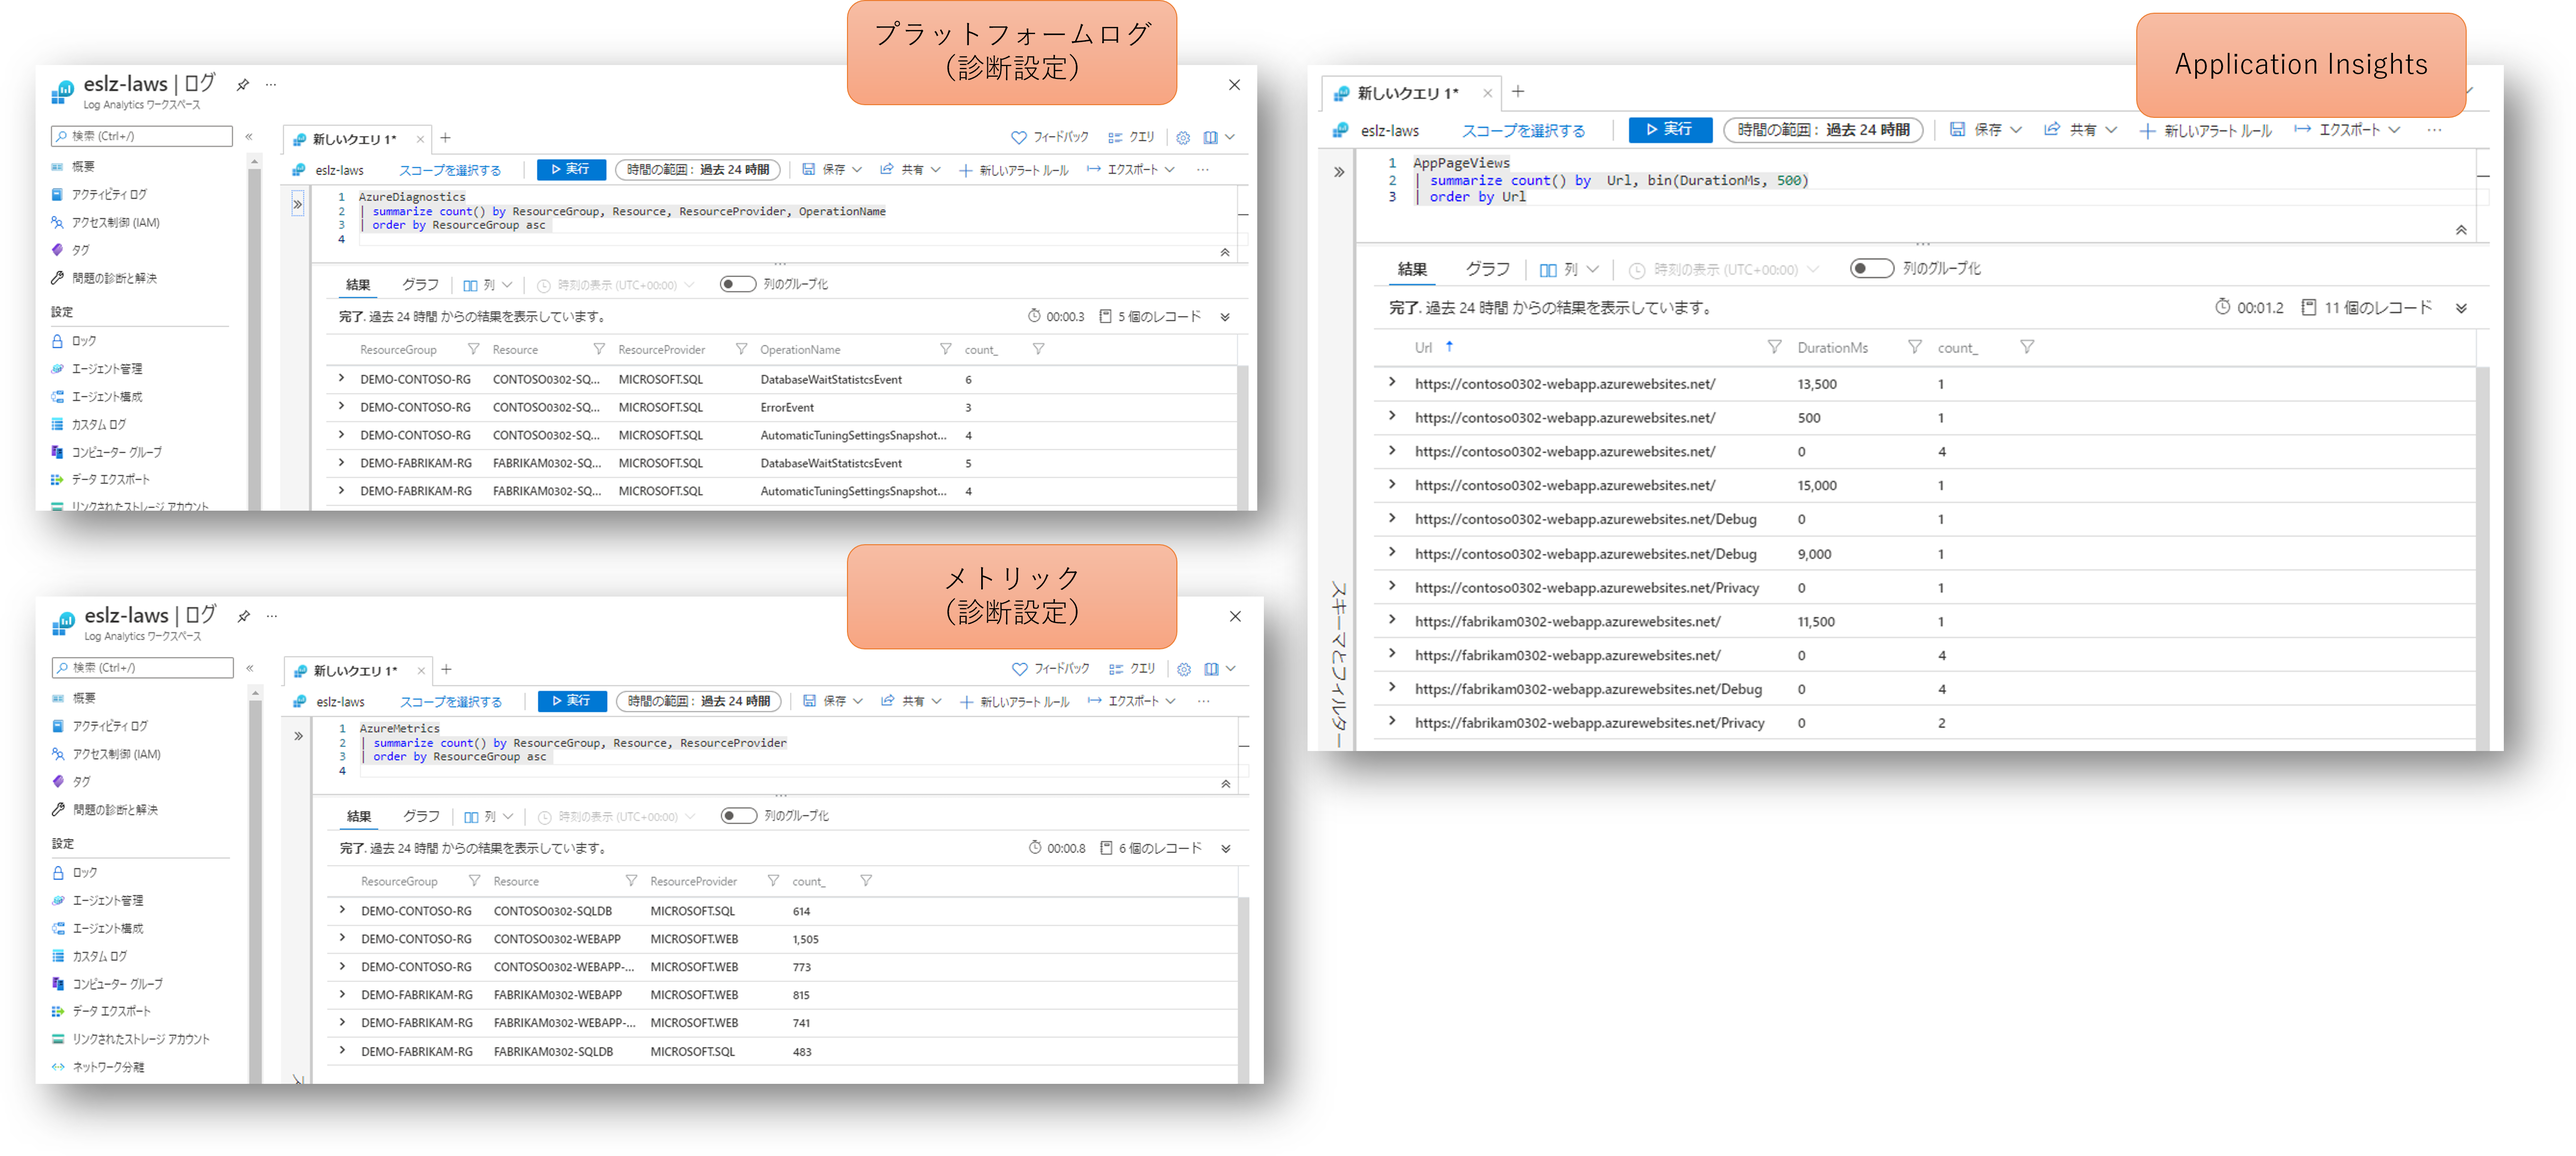
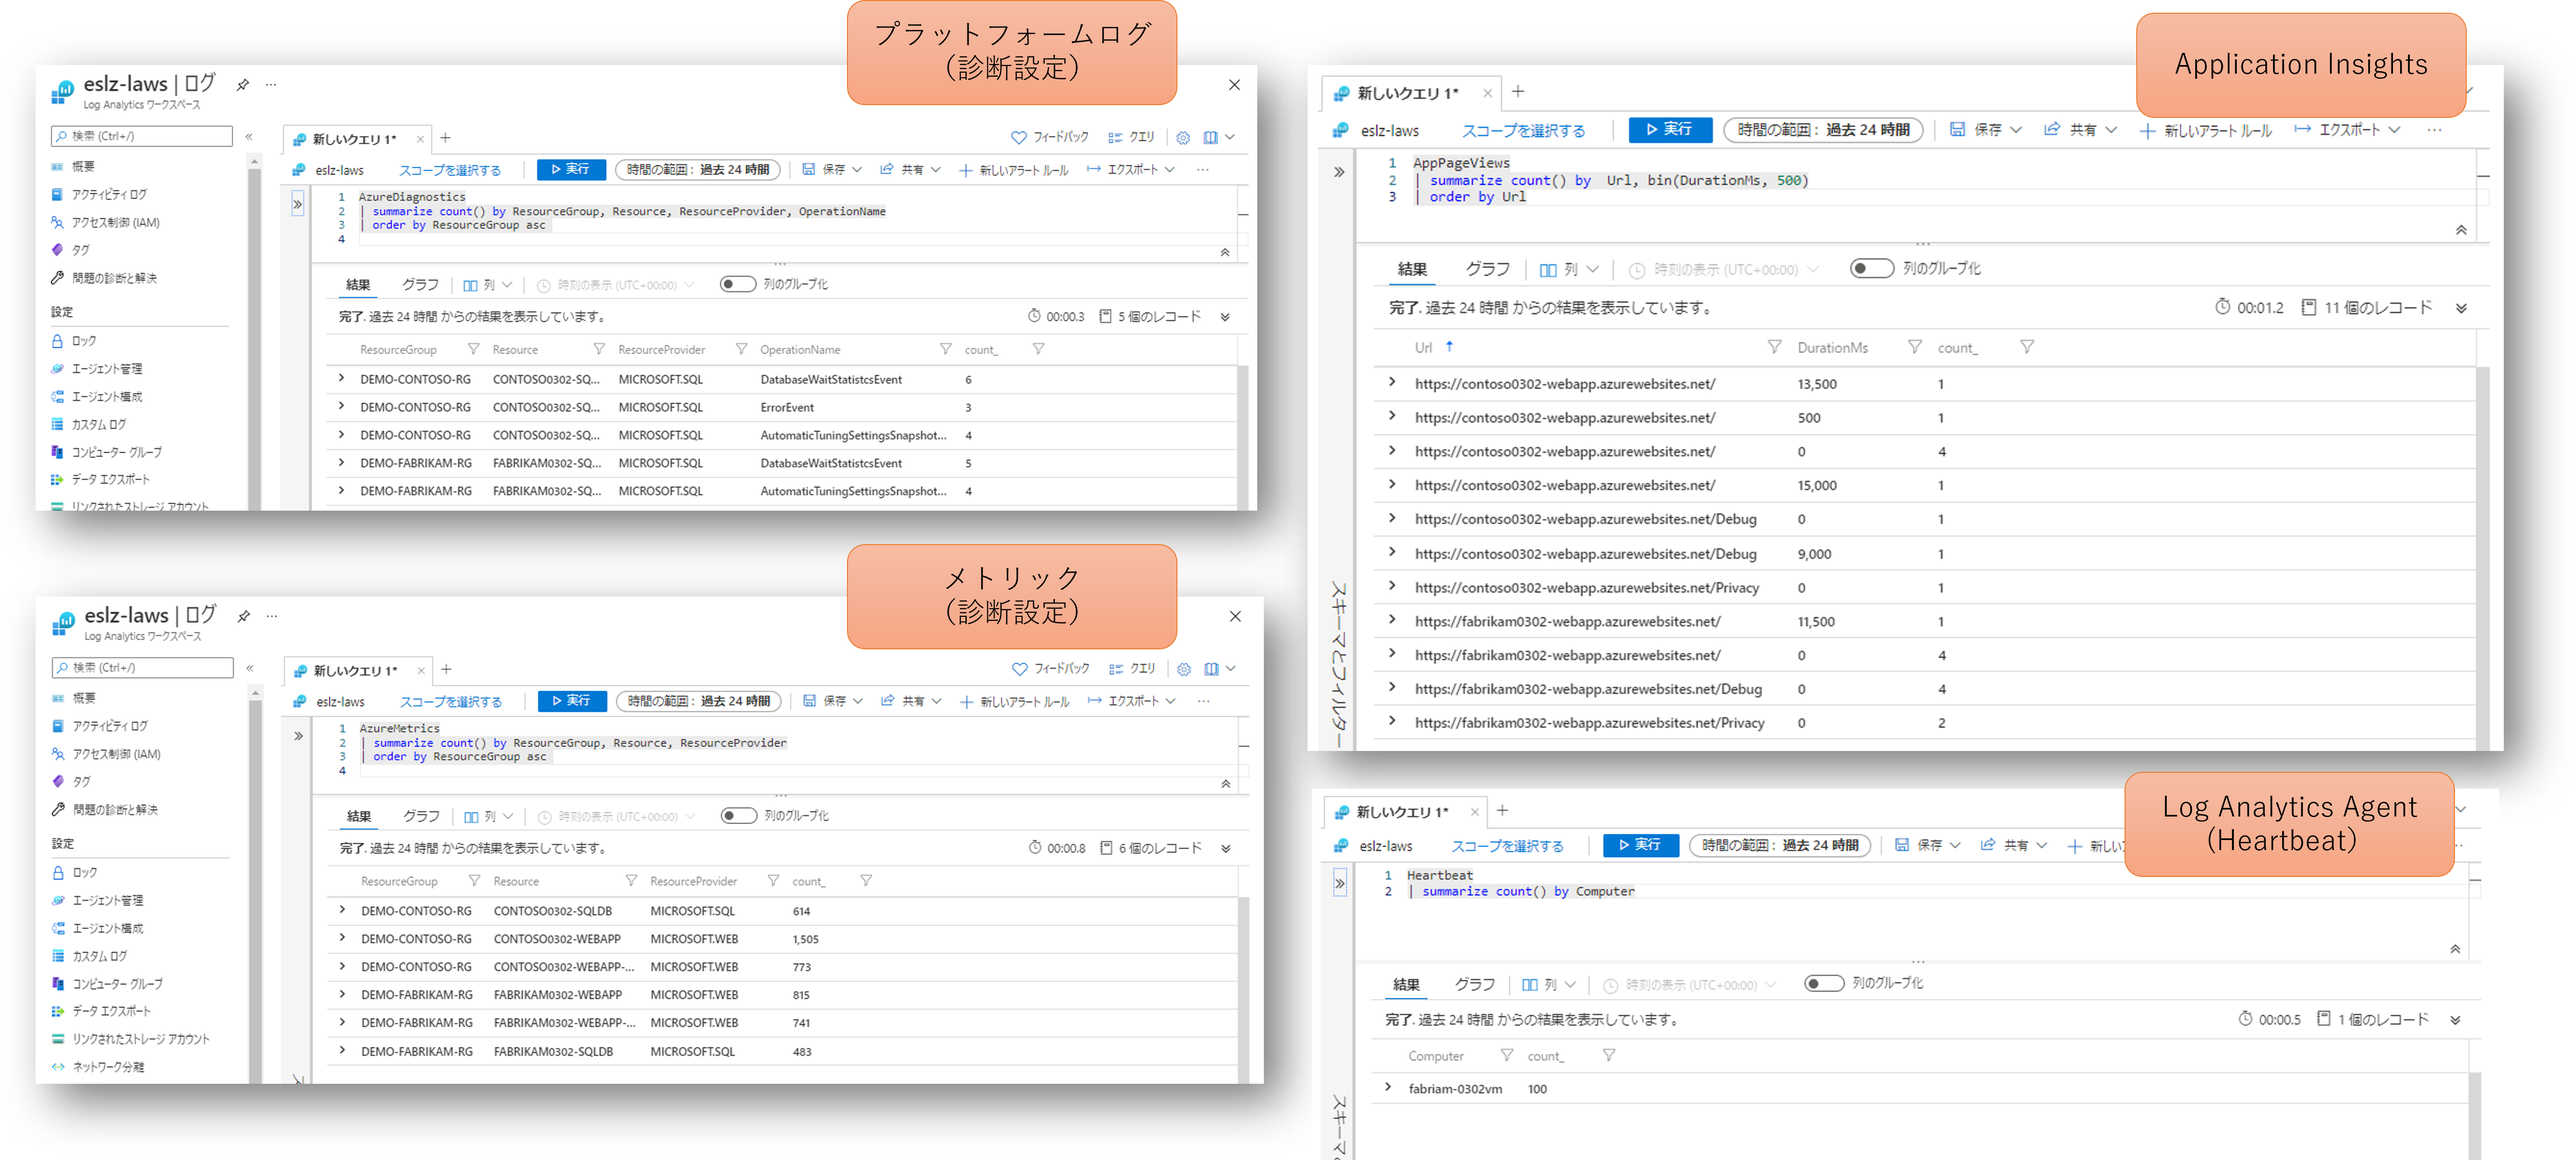
fix doc

diff --git a/azure-monitor-rbac/index.md b/azure-monitor-rbac/index.md
@@ -1,6 +1,6 @@
 ---
 layout: default
-title: Azure 環境の監視に必要なロールとアクセス権
+title: Azure 環境の運用・監視に必要なロールとアクセス権の基本
 ---
 
 ## はじめに
@@ -8,7 +8,7 @@ title: Azure 環境の監視に必要なロールとアクセス権
 ある１つの組織内で Azure の活用が進んでいくと、多数のシステムが構築・運用されるようになり、各システムにおける多種多様な役割の担当者のアクセスの制御が重要になってきます。
 アクセス制御の方針は様々考えられますが、割とよく見られるのが単一のサブスクリプション内部をリソースグループで分割し、各担当者のアクセス可能な範囲を絞り込むアプローチです。
 
-各システムの担当者、特に運用に関わるユーザーは、当該システムに関わるリソースが参照できなければ話になりません。
+さて各システムの担当者、特に運用に関わるユーザーは、当該システムに関わるリソースが参照できなければ話になりません。
 このため一部のリソースグループに対して Azure RBAC の[閲覧者（reader）](https://docs.microsoft.com/ja-jp/azure/role-based-access-control/built-in-roles#reader)ロールを割り当てられることが多くなります。
 下の図の緑や黄色のユーザーのようなイメージです。
 
@@ -40,12 +40,13 @@ title: Azure 環境の監視に必要なロールとアクセス権
 
 ### 全てのログが見えるはず
 
-共用の Log Analytics ワークスペースには Application Insights のデータや各リソースの診断設定によってエクスポートされたリソースログやメトリックが集約されています。
+共用の Log Analytics ワークスペースには Application Insights が集めたテレメトリデータ、Log Analytics エージェントによって収集されたゲスト OS のテレメトリ、各リソースの診断設定によってエクスポートされたリソースログやメトリックが集約されています。
 このため管理者この全ログデータに対してクエリが可能ということになります。
 
 ![log-for-admin](./images/log-for-admin.png)
 
-
+当たり前といえば当たり前ですね。
+しかし逆に言えばこの万能さが仇になり（以下略）
 
 ## 各システムの運用担当者は何が見える？
 
@@ -54,6 +55,16 @@ title: Azure 環境の監視に必要なロールとアクセス権
 
 ![resources for contoso user](./images/resources-for-contoso-user.png)
 
+### Application Insights による監視は可能
+
+リソースグループに対して閲覧者ロールが割り当てられているということは、その配下にある Application Insights に対しても閲覧者ロールの割り当てが継承されます。
+よって Application Insights による分析やクエリは可能です。
+
+![appinsights-for-consoto-user](./images/appinsights-for-consoto-user.png)
+
+[Application Insights のリソース、ロール、アクセス制御](https://docs.microsoft.com/ja-jp/azure/azure-monitor/app/resources-roles-access-control)
+にある通り、閲覧者は`表示はできますが、何も変更することはできません。`
+が、まずはパフォーマンスデータなどが表示できればまずは大丈夫でしょうか。
 
 ### 必要なメトリックはちゃんと見える
 
@@ -80,6 +91,7 @@ title: Azure 環境の監視に必要なロールとアクセス権
 |*/read|機密データを除くあらゆる種類のリソースの読み取り|
 |Microsoft.OperationalInsights/workspaces/search/action|検索クエリを実行します。|
 |Microsoft.Support|サポート チケットの作成と更新|
+
 
 ### 実はログも見える
 
